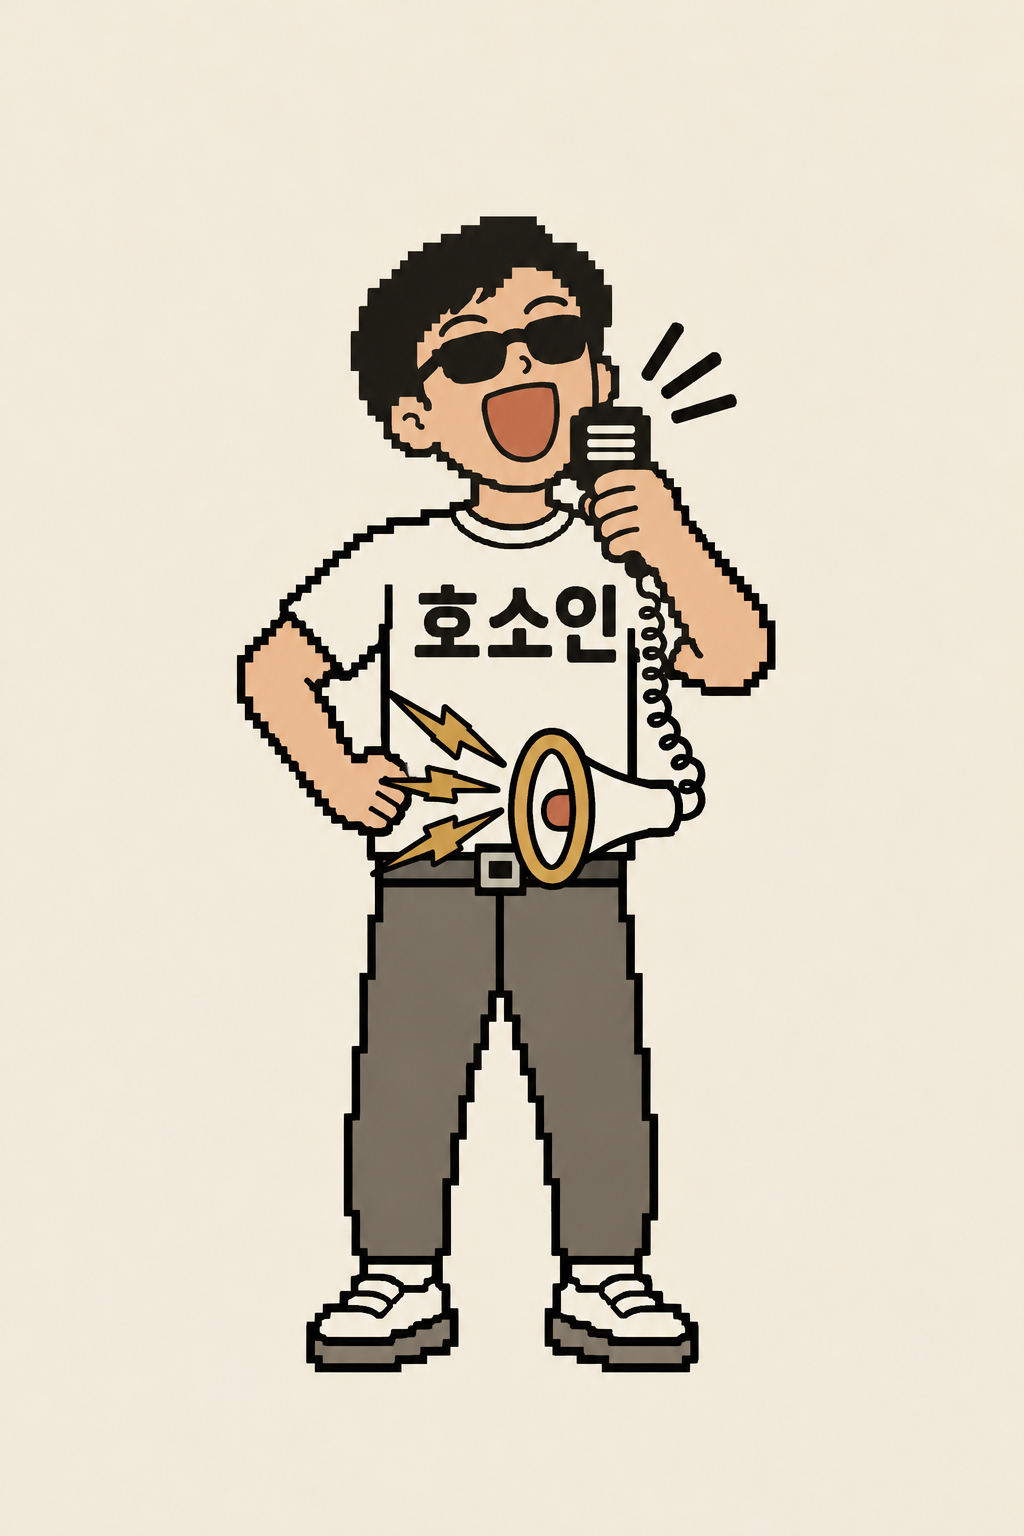
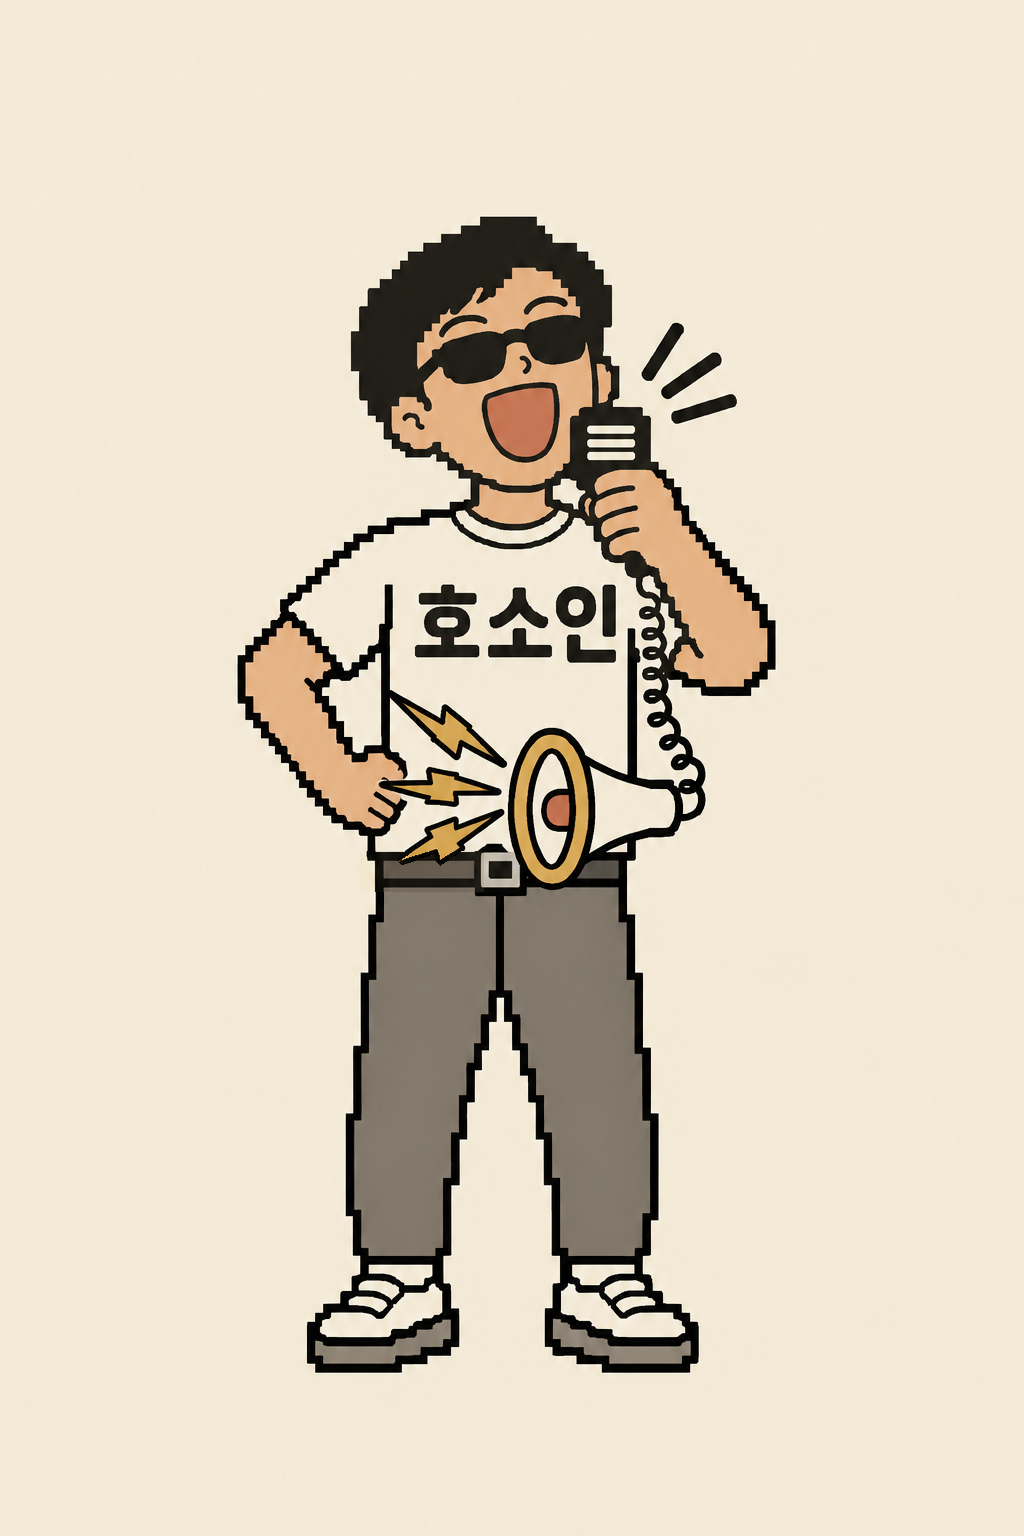
KAN-325 호소인 아래 번개 2개를 맨 위 번개 모양으로 다시 생성 - 벨트 복원, 종이·피부색 보정, 파생본 재생성

Changed region(s): [[0.3438, 0.4688, 0.5, 0.5625], [0.3438, 0.5938, 0.375, 0.7188], [0.4062, 0.8125, 0.4375, 0.8438]]

diff --git a/assets/characters/wannabe/prompt.md b/assets/characters/wannabe/prompt.md
@@ -27,3 +27,19 @@ Change only the three small marks left of the megaphone bell. Replace them with 
 Crisp square pixels, flat uniform cream background. No new text, logo or watermark.
 
 After saving, print: DONE wannabe.png <width>x<height>.
+
+
+---
+
+Use the built-in `image_gen` tool (default mode, no CLI fallback), editing the attached image. Do not ask questions. Do not write SVG or draw by code. Save `wannabe.png` in the current directory, portrait 1024x1536.
+
+Keep everything exactly except the two lower lightning bolts: person, face, sunglasses, radio, t-shirt outline, the text "호소인", belt, buckle, megaphone, cord, trousers, shoes, position, scale, colors, pixel size, and the TOP bolt.
+
+Look at the top lightning bolt: its strong zigzag with a clear step in the middle and a sharp tip. The two bolts below it do not read the same. Delete those two and redraw them as exact copies of the top bolt: the same size, the same zigzag shape, the same outline weight, only rotated.
+- Middle bolt: pointing straight left out of the bell, in front of the hand on the hip.
+- Bottom bolt: pointing down-left out of the bell. It stops above the belt and does not touch the belt or the buckle.
+Restore the shirt and the hand where the old bolts were.
+
+Crisp square pixels, flat uniform cream background. No new text, logo or watermark.
+
+After saving, print: DONE wannabe.png <width>x<height>.
